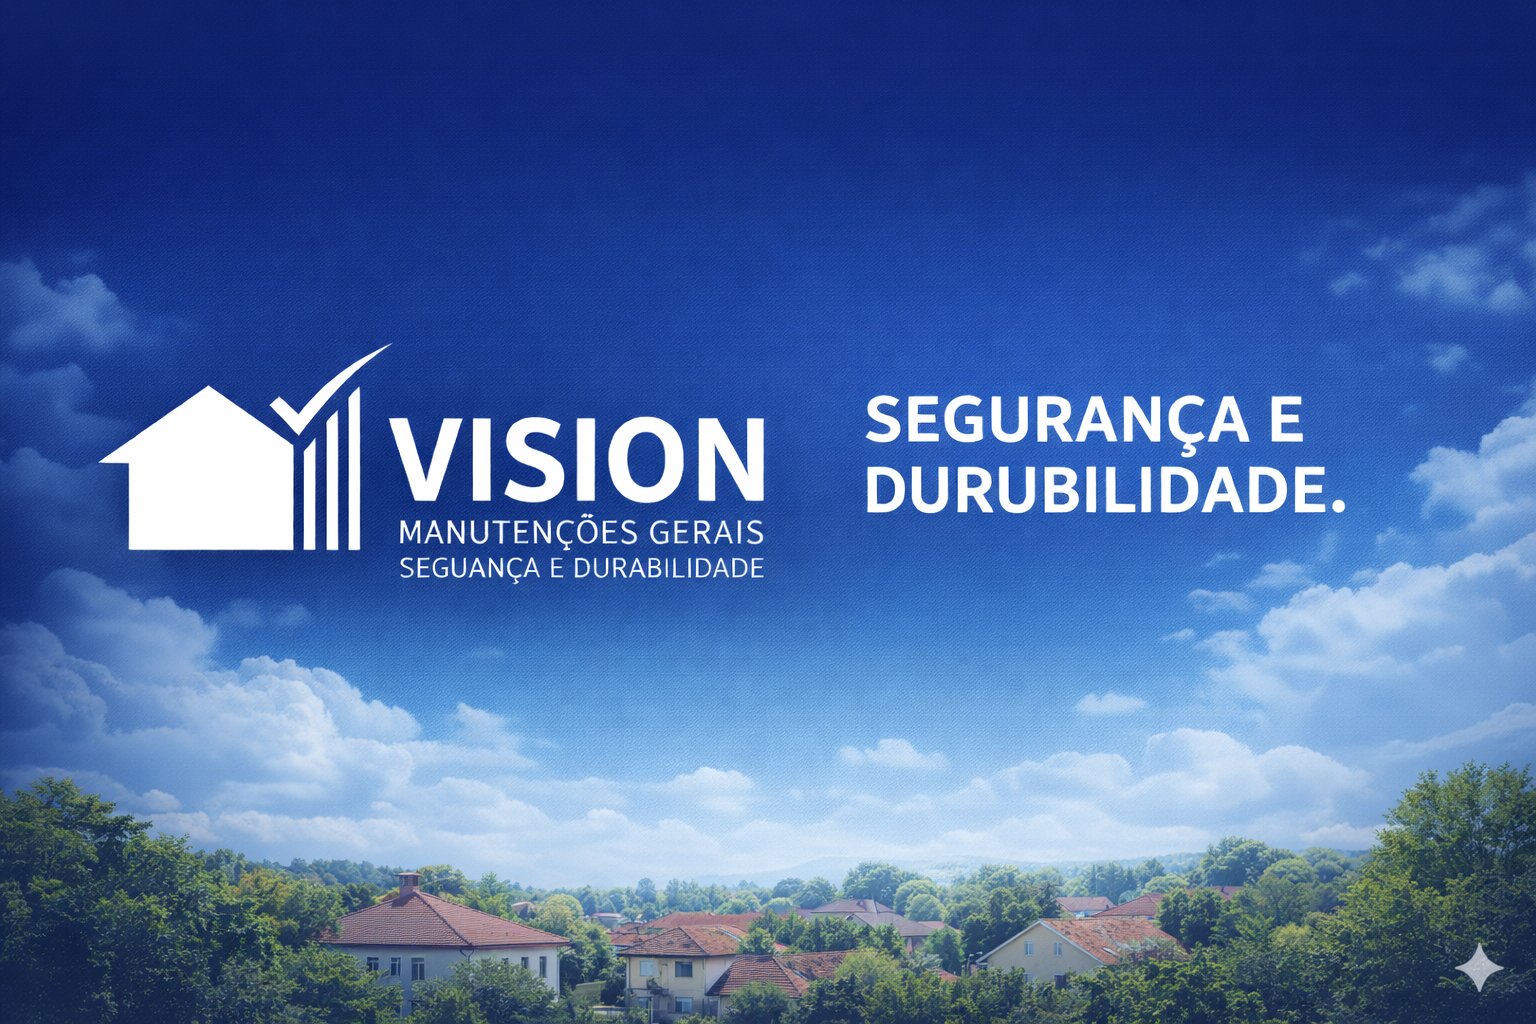
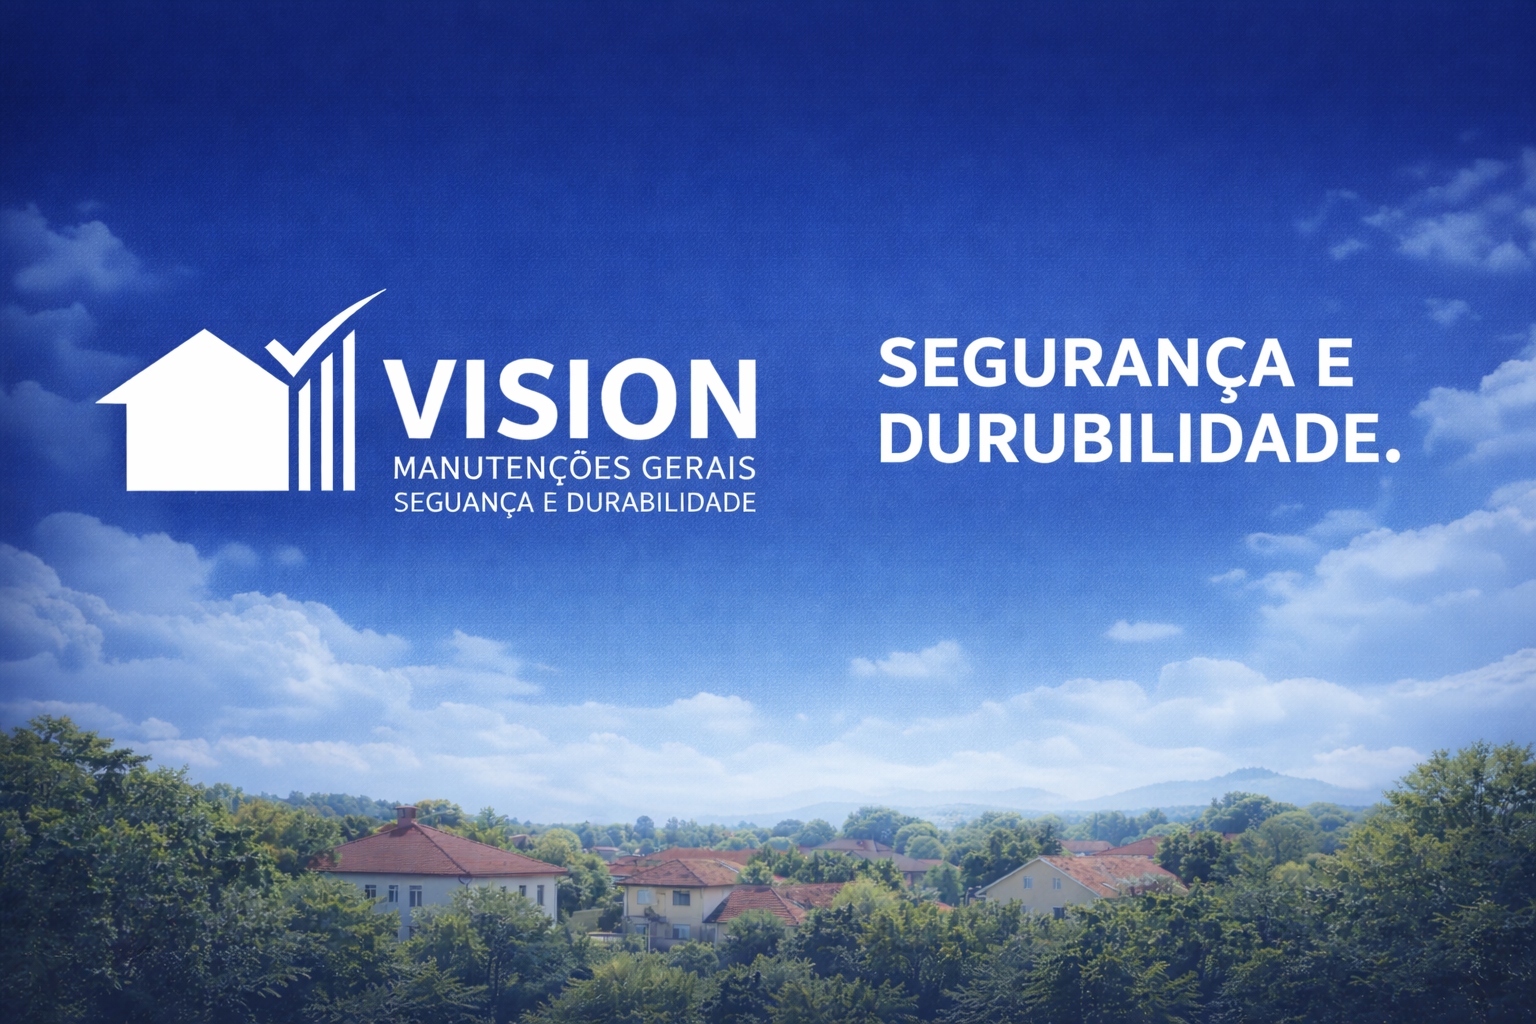
Inicio mobile

diff --git a/css/style.css b/css/style.css
@@ -112,7 +112,7 @@ section {
   content: "";
   position: absolute;
   inset: 0;
-  background: rgba(22, 58, 94, 0.35);
+  background: rgba(22, 58, 94, 0.25);
 }
 
 .hero-content {
@@ -123,9 +123,13 @@ section {
   margin-top: 140px;
 }
 
+/* Botão do HERO mais embaixo sem quebrar outros botões */
+.hero .btn-principal {
+  margin-top: 140px;
+}
+
 /* ===================== Botão ===================== */
 .btn-principal {
-  margin-top: 200px;
   display: inline-block;
 
   background-color: var(--white);
@@ -180,13 +184,13 @@ section {
   font-size: 2rem;
   margin-bottom: 8px;
 }
+
 .section-subtitle {
   margin-bottom: 40px;
   font-size: 1.05rem;
   color: #163A5E;
   opacity: 0.85;
 }
-
 
 .service-groups {
   display: grid;
@@ -270,7 +274,6 @@ section {
   padding: 0 20px;
 }
 
-/* Título e descrição */
 .contact h2 {
   font-size: 2rem;
   margin-bottom: 10px;
@@ -283,7 +286,6 @@ section {
   color: #333;
 }
 
-/* ===================== Cards ===================== */
 .contact-cards {
   display: grid;
   grid-template-columns: repeat(2, minmax(260px, 1fr));
@@ -292,7 +294,6 @@ section {
   margin: 0 auto;
 }
 
-/* Card base */
 .contact-card {
   background: #F3F6FA;
   border-radius: 18px;
@@ -307,43 +308,30 @@ section {
   transition: transform 0.25s ease, box-shadow 0.25s ease, border-color 0.25s ease;
 }
 
-/* Hover */
 .contact-card:hover {
   transform: translateY(-4px);
   box-shadow: 0 14px 28px rgba(0, 0, 0, 0.18);
   border-color: rgba(62, 119, 170, 0.6);
 }
 
-/* Título do card (WhatsApp / Instagram) */
 .contact-card-title {
   font-size: 1.25rem;
   font-weight: 800;
   color: #133b67;
 }
 
-/* Valor principal */
 .contact-card-value {
   font-size: 1.1rem;
   font-weight: 600;
   color: #163A5E;
 }
 
-/* Ação */
 .contact-card-action {
   margin-top: 6px;
   font-size: 0.95rem;
   font-weight: 700;
   color: #3E77AA;
 }
-
-/* ===================== Responsivo ===================== */
-@media (max-width: 768px) {
-  .contact-cards {
-    grid-template-columns: 1fr;
-  }
-}
-
-
 
 /* ===================== Footer ===================== */
 .site-footer {
@@ -386,12 +374,6 @@ section {
   }
 }
 
-@media (max-width: 900px) {
-  .contact .container {
-    grid-template-columns: 1fr;
-  }
-}
-
 @media (max-width: 768px) {
   .menu-toggle {
     display: block;
@@ -430,22 +412,27 @@ section {
     display: flex;
   }
 
-  .hero h1 {
-    font-size: 2.1rem;
+  /* Hero no mobile: imagem inteira */
+  .hero {
+    background-size: contain;
+    background-position: center top;
+    background-repeat: no-repeat;
+    background-color: var(--navy);
+    min-height: 85vh;
   }
 
-  .hero p {
-    font-size: 1.05rem;
+  /* Botão mais baixo no mobile */
+  .hero-content {
+    margin-top: 0;
+    padding-top: 220px;
   }
 
-  .contact-form {
+  .hero .btn-principal {
+    margin-top: 0;
+  }
+
+  .contact-cards {
     grid-template-columns: 1fr;
-  }
-
-  .contact-form .btn-principal {
-    width: 100%;
-    justify-self: stretch;
-    text-align: center;
   }
 }
 
